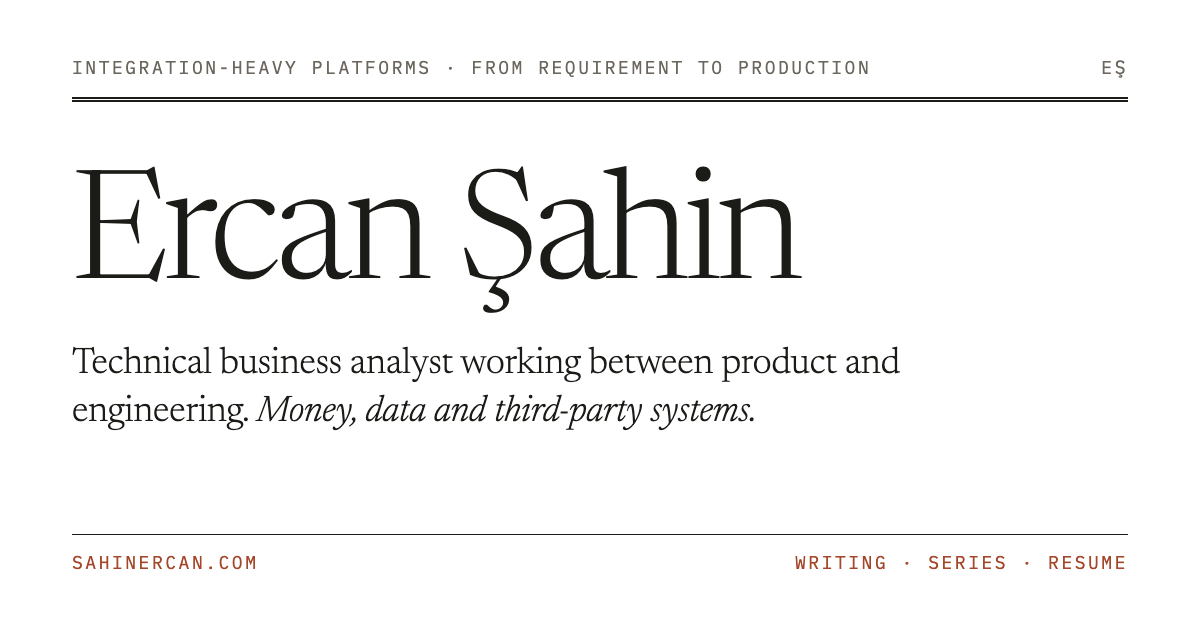
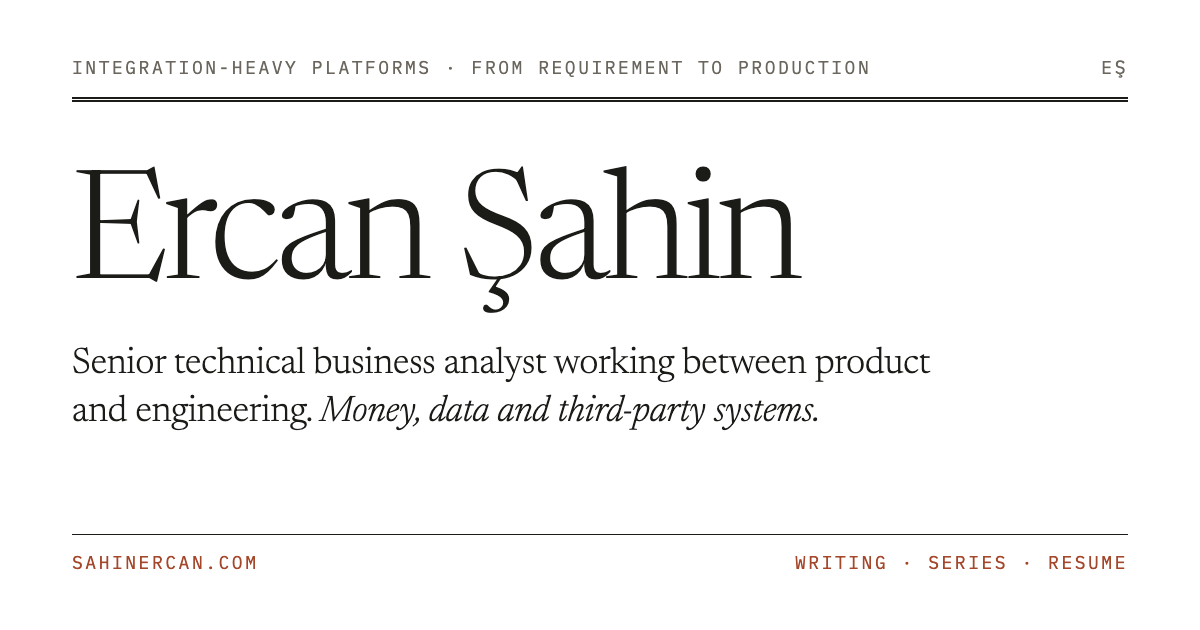
Resume: Senior Technical Business Analyst headline and product keywords
- Headline is now Senior Technical Business Analyst (resume, home, share card)
- CyberSpeed role matches LinkedIn: Senior Business Analyst, backlog ownership
- Add a Product Ownership skills line and product lifecycle wording so
  PO and PM searches match the page

Changed region(s): [[0.0617, 0.5429, 0.7708, 0.6032], [0.0617, 0.6333, 0.6783, 0.6937]]

diff --git a/resume.html b/resume.html
@@ -3,7 +3,7 @@
 <head>
     <meta charset="UTF-8">
     <meta name="viewport" content="width=device-width, initial-scale=1.0">
-    <title>Resume · Ercan Şahin, Technical Business Analyst</title>
+    <title>Resume · Ercan Şahin, Senior Technical Business Analyst</title>
     <meta name="description" content="Resume of Ercan Şahin, technical business analyst in Dubai. 7+ years on integration-heavy platforms: money flows, CRM campaigns, ERP and third-party APIs.">
     <link rel="canonical" href="https://sahinercan.com/resume.html">
     <meta name="theme-color" content="#FFFFFF">
@@ -15,7 +15,7 @@
     <!-- Share preview (LinkedIn, WhatsApp, X, Slack) -->
     <meta property="og:type" content="website">
     <meta property="og:url" content="https://sahinercan.com/resume.html">
-    <meta property="og:title" content="Resume · Ercan Şahin, Technical Business Analyst">
+    <meta property="og:title" content="Resume · Ercan Şahin, Senior Technical Business Analyst">
     <meta property="og:description" content="Resume of Ercan Şahin, technical business analyst in Dubai. 7+ years on integration-heavy platforms: money flows, CRM campaigns, ERP and third-party APIs.">
     <meta property="og:image" content="https://sahinercan.com/assets/og-image.png">
     <meta property="og:image:width" content="1200">
@@ -47,7 +47,7 @@
     <main class="container cvx">
         <header class="cvx-head">
             <h1>ERCAN ŞAHİN</h1>
-            <p class="cvx-title">TECHNICAL BUSINESS ANALYST</p>
+            <p class="cvx-title">SENIOR TECHNICAL BUSINESS ANALYST</p>
             <p class="cvx-contact">
                 Dubai, UAE | <a class="cvx-mail" href="mailto:sahinercan.cs@gmail.com">sahinercan.cs@gmail.com</a><br>
                 <a href="https://linkedin.com/in/sahinercan" target="_blank" rel="noopener">linkedin.com/in/sahinercan</a> | <a href="https://medium.com/@ercanvari" target="_blank" rel="noopener">medium.com/ercanvari</a>
@@ -57,12 +57,13 @@
 
         <section>
             <h2>SUMMARY</h2>
-            <p>Technical business analyst with 7+ years of delivering digital products on integration-heavy platforms: betting and lottery, ERP and API-driven products. Proven track record across the Southeast Asian and Caucasus region, orchestrating the end-to-end delivery of 50+ game integrations and managing partnerships with 8+ global providers. Grew from technical business analyst to senior and then Product Owner at a national betting infrastructure provider. Expert at coordinating diverse, cross-functional teams to translate complex business requirements into scalable, international solutions.</p>
+            <p>Senior technical business analyst and former Product Owner with 7+ years of delivering digital products on integration-heavy platforms: betting and lottery, ERP and API-driven products. Experienced across the product lifecycle, from discovery and requirements to backlog, roadmap and release. Proven track record across the Southeast Asian and Caucasus region, orchestrating the end-to-end delivery of 50+ game integrations and managing partnerships with 8+ global providers. Expert at coordinating diverse, cross-functional teams to translate complex business requirements into scalable, international solutions.</p>
         </section>
 
         <section>
             <h2>SKILLS</h2>
             <p><b>Business Analysis:</b> Requirement Analysis, BRD, Stakeholder Management, Backlog Management, User Stories, Prioritization, Sprint &amp; Release Planning, Change Management, Data Analysis, 3rd Party Integrations.</p>
+            <p><b>Product Ownership:</b> Product Roadmap, Backlog Grooming, Prioritization (MoSCoW, RICE), Acceptance Criteria, KPI &amp; OKR Definition, Go-to-Market, Stakeholder Alignment.</p>
             <p><b>Methodologies &amp; Tools:</b> Agile-Scrum, Kanban, BPM, UML, C4 Model, JIRA, Figma, Lucidchart</p>
             <p><b>Technical Skills:</b> SQL, RESTful APIs, Kafka, WebSockets, Postman, Grafana, Kibana, .NET, JavaScript.</p>
         </section>
@@ -70,10 +71,10 @@
         <section class="cvx-work">
             <h2>WORK EXPERIENCE</h2>
             <article class="cvx-job">
-                <div class="cv-row"><strong>Technical Business Analyst</strong><strong>UAE | Dubai</strong></div>
-                <div class="cv-row"><strong>Cyberspeed / Kodix</strong><strong>Jan 2026 - Now</strong></div>
+                <div class="cv-row"><strong>Senior Business Analyst</strong><strong>UAE | Dubai</strong></div>
+                <div class="cv-row"><strong>CyberSpeed</strong><strong>Jan 2026 - Now</strong></div>
                 <ul>
-                    <li>Own technical product requirements for a <b>multi-brand ecosystem (10+ brands)</b> across <b>Vietnam, Thailand, Cambodia and the Philippines</b>, built to scale in a high-traffic market.</li>
+                    <li>Manage the <b>product backlog</b> and end-to-end delivery of platforms for a <b>multi-brand ecosystem (10+ brands)</b> across <b>Vietnam, Thailand, Cambodia and the Philippines</b>.</li>
                     <li>Lead the migration of legacy systems into a <b>unified monorepo</b>, using <b>C4 models</b> and <b>technical diagrams</b> to document complex <b>system architecture</b> flows.</li>
                     <li>Deliver technical features and backend integrations end to end, balancing <b>multi-market requirements</b> with high-performance system standards.</li>
                     <li>Align <b>diverse, cross-functional engineering teams</b> and global stakeholders to drive the product forward in a fast-paced environment.</li>

diff --git a/index.html b/index.html
@@ -3,8 +3,8 @@
 <head>
     <meta charset="UTF-8">
     <meta name="viewport" content="width=device-width, initial-scale=1.0">
-    <title>Ercan Şahin · Technical business analyst</title>
-    <meta name="description" content="Ercan Şahin, technical business analyst working between product and engineering on integration-heavy platforms. Writing on how platforms really work.">
+    <title>Ercan Şahin · Senior technical business analyst</title>
+    <meta name="description" content="Ercan Şahin, senior technical business analyst working between product and engineering on integration-heavy platforms. Writing on how platforms really work.">
     <link rel="canonical" href="https://sahinercan.com/">
     <meta name="theme-color" content="#FFFFFF">
 
@@ -16,7 +16,7 @@
     <meta property="og:type" content="website">
     <meta property="og:url" content="https://sahinercan.com/">
     <meta property="og:title" content="Ercan Şahin · Technical business analyst">
-    <meta property="og:description" content="Ercan Şahin, technical business analyst working between product and engineering on integration-heavy platforms. Writing on how platforms really work.">
+    <meta property="og:description" content="Ercan Şahin, senior technical business analyst working between product and engineering on integration-heavy platforms. Writing on how platforms really work.">
     <meta property="og:image" content="https://sahinercan.com/assets/og-image.png">
     <meta property="og:image:width" content="1200">
     <meta property="og:image:height" content="630">
@@ -49,7 +49,7 @@
             <p class="kicker">Integration-heavy platforms · from requirement to production</p>
             <h1 class="display">Ercan Şahin</h1>
             <p class="standfirst">
-                Technical business analyst working between product and engineering,
+                Senior technical business analyst working between product and engineering,
                 on platforms where money, data and third-party systems meet.
                 Currently bringing 10+ brands in four markets onto one platform.
                 Before that: 50+ integrations with 8 providers, a national lottery system and ERP modules.
